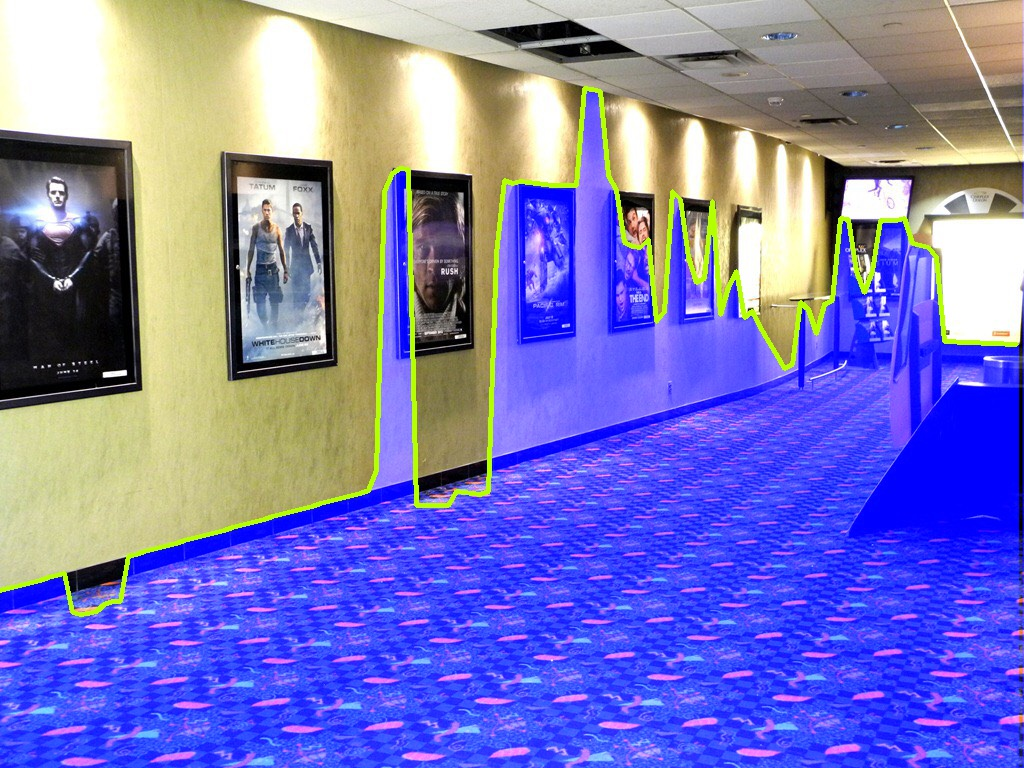
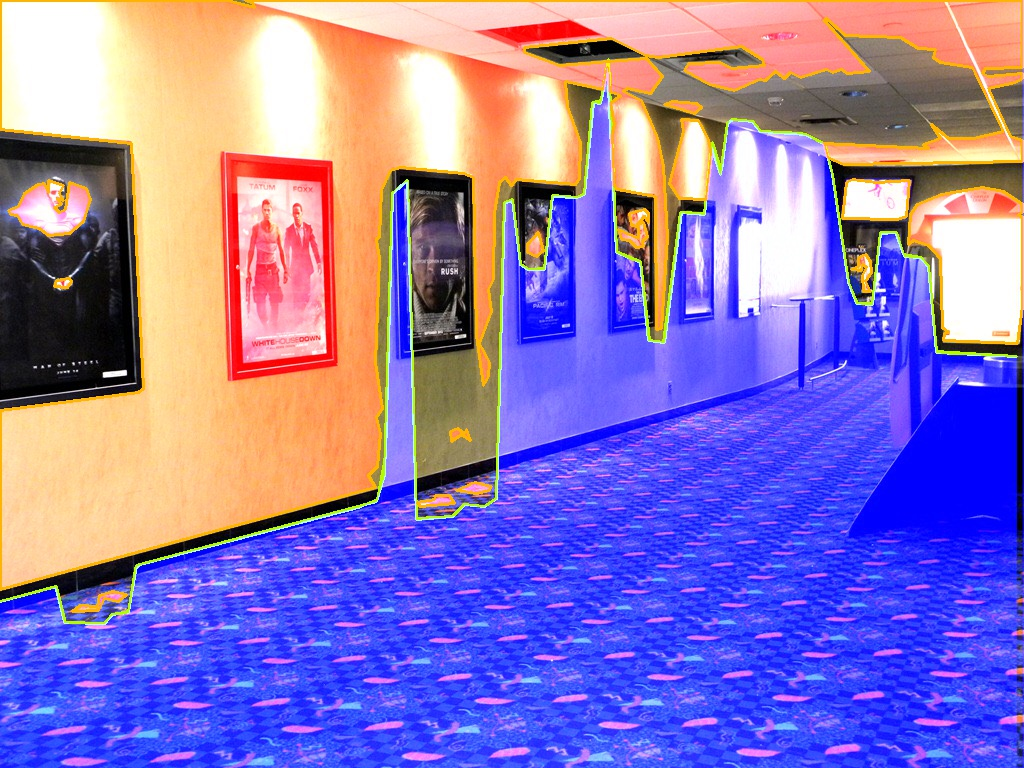
adding sample result dumps and modified algo to take advantage of HoughLines along with segementation

diff --git a/HV_plane_detect.py b/HV_plane_detect.py
@@ -1,129 +1,314 @@
 import cv2
 import numpy as np
-from matplotlib import pyplot as plt
-import argparse
-import random
 import os
+import logging
 
+log = logging.getLogger()
+logging.basicConfig(level=logging.INFO)
 
 
 class segmentation():
 
-    def __init__(self, filename, isDebugWindowsVisible=False, minContourArea=200):
-        self.isDebugWindowsVisible = isDebugWindowsVisible
+    def __init__(self, filename):
         self.filename = filename
-        self.contours = []
-        self.MIN_CONTOUR_AREA_REQUIRED = minContourArea
+        self.__preprocess(self.filename)
 
-    def preprocess(self, filename):
-        self.img = cv2.imread(filename)
-        if self.img is None:
-            print "file does not exist"
-            return
+    def __preprocess(self, filename):
+        """
+        Loads Image and performs basic Preprocessing. [Private Method]
+        Preprocessing includes (BGR->RGB, filters, RGB->Gray, Gray->Thresh)
+        """
+        self.in_image = cv2.imread(filename)
 
-        self.img = cv2.cvtColor(self.img, cv2.COLOR_BGR2RGB)
+        self.rgb_image = cv2.cvtColor(self.in_image, cv2.COLOR_BGR2RGB)
 
         # noise removal
-        blur = cv2.medianBlur(self.img, 3)
+        blur = cv2.medianBlur(self.rgb_image, 3)
         blur = cv2.GaussianBlur(blur, (3, 3), 0)
         blur = cv2.blur(blur, (3, 3))
+        blur = cv2.bilateralFilter(blur, 9, 30, 30)
 
         # convert to GRAYSCALE
         self.G = cv2.cvtColor(blur, cv2.COLOR_RGB2GRAY)
 
-
         # Noise removal
-        G_filtered = cv2.bilateralFilter(self.G, 9, 30, 30)
 
         # threshold
-        _, G_thresh = cv2.threshold(G_filtered, 0, 255, cv2.THRESH_BINARY + cv2.THRESH_OTSU)
+        _, self.G_thresh = cv2.threshold(
+            self.G, 0, 255, cv2.THRESH_BINARY + cv2.THRESH_OTSU)
 
-        return G_thresh
-
-    def get_contours(self, image):
+    def __compute_contours(self, image, minContourArea=100):
+        """
+        Computes Contours for the provided Image. [Private Method]
+        """
         # Find contours for the Morphed Image
-        ret, t_contours, hierarchy = cv2.findContours(image, cv2.RETR_EXTERNAL, cv2.CHAIN_APPROX_SIMPLE)
-        t_contours = [cv2.approxPolyDP(c, epsilon=2.5, closed=True) for c in t_contours]
-        contour_plot = np.zeros(image.shape[:2], dtype=np.uint8)
-        for c in t_contours:
-            if cv2.contourArea(c) < self.MIN_CONTOUR_AREA_REQUIRED:
-                continue
-            self.contours.append(c)
+        ret, t_contours, hierarchy = cv2.findContours(
+            image, cv2.RETR_EXTERNAL, cv2.CHAIN_APPROX_SIMPLE)
+        t_contours = [cv2.approxPolyDP(
+            c, epsilon=2.5, closed=True) for c in t_contours]
 
-        return self.contours
+        contours = []
+        for c in t_contours:
+            if cv2.contourArea(c) < minContourArea:
+                continue
+            contours.append(c)
+
+        return contours
+
+    def wall_segmentation(self):
+        """
+        Segmentation for the Wall Extraction from the image
+
+        Returns: Wall Contour Points, Wall Mask
+        """
+        wall_img = self.rgb_image.copy()
+        G_thresh = self.G_thresh.copy()
+
+        if self.floor_mask is None:
+            _, self.floor_mask = self.floor_segmentation()
+
+        # remove portion of Floor (already detected pixels)
+        G_thresh[self.floor_mask == 255] = 0
+        # remove sky (usually tends to have higher gray values)
+        # sky_mask = cv2.inRange(self.rgb_image, np.array([90,127,127]), np.array([90,127,127]))
+        # G_thresh[sky_mask > 0 ] = 0
+
+        # perform watershed algorithm to segment walls from the background
+        # _, markers = cv2.connectedComponents(G_thresh)
+        # markers = markers + 1
+        # markers = cv2.watershed(wall_img, markers)
+
+        self.wall_pts = self.__compute_contours(G_thresh)
+
+        self.wall_mask = np.zeros(G_thresh.shape[:2], dtype=np.uint8)
+        cv2.drawContours(self.wall_mask, self.wall_pts, -1, 255, thickness=-1)
+
+        # Give highlighter to image
+        cv2.drawContours(wall_img, self.wall_pts, -1, (255, 0, 0), thickness=2)
+        G = wall_img[:, :, 1]
+        G[self.wall_mask > 0] = 255
+
+        if log.level == logging.DEBUG:
+            # plt.subplot(131), plt.imshow(markers), plt.title("markers")
+            plt.subplot(121), plt.imshow(
+                G_thresh, cmap='gray'), plt.title("G_thresh")
+            plt.subplot(122), plt.imshow(wall_img), plt.title("Walls")
+            plt.show()
+
+        return self.wall_pts, self.wall_mask
+
+    def houghLines(self, probabilistic=True):
+        """
+        Computes Hough Transforms
+        """
+        HoughLines_img = self.rgb_image.copy()
+        filteredContours = self.__compute_contours(
+            self.G_thresh, minContourArea=200)
+
+        contour_plot = np.zeros(self.G_thresh.shape[:2], dtype=np.uint8)
+        cv2.drawContours(contour_plot, filteredContours, -1, 255, thickness=-1)
+        kernel = cv2.getStructuringElement(cv2.MORPH_RECT, (13, 13))
+        G_close = cv2.dilate(contour_plot, kernel, iterations=1)
+        edges = cv2.Canny(G_close, 20, 40, apertureSize=3)
+
+        self.houghline_G_thresh_mask = edges.copy()
+
+        if not probabilistic:
+            lines = cv2.HoughLines(edges, 1, np.pi / 2, 2)
+            draw_H = np.zeros(HoughLines_img.shape, dtype='uint8')
+            draw_V = np.zeros(HoughLines_img.shape, dtype='uint8')
+            if lines is not None:
+                for line in lines[:10]:
+                    i = 0
+                    for rho, theta in line:
+                        a = np.cos(theta)
+                        b = np.sin(theta)
+                        x0 = a * rho
+                        y0 = b * rho
+                        x1 = int(x0 + 1000 * (-b))
+                        y1 = int(y0 + 1000 * (a))
+                        x2 = int(x0 - 1000 * (-b))
+                        y2 = int(y0 - 1000 * (a))
+                        theta_in_degree = theta * 180 / np.pi
+                        print "theta for line[", i, "] is", theta_in_degree
+                        i += 1
+                        if theta_in_degree > 180 - 30 or theta_in_degree < 30:
+                            line_color = (0, 255, 0)
+                            draw_on = draw_V
+                        elif theta_in_degree > 90 - 45 and theta_in_degree < 90 + 45:
+                            line_color = (0, 0, 255)
+                            draw_on = draw_H
+                            cv2.line(self.houghline_G_thresh_mask,
+                                     (x1, y1), (x2, y2), 255, 2)
+                        else:
+                            print "continue"
+                            continue
+                        print "drawing line on"
+
+                        cv2.line(draw_on, (x1, y1), (x2, y2), line_color, 2)
+                        cv2.line(HoughLines_img, (x1, y1),
+                                 (x2, y2), line_color, 2)
+            else:
+                print "no lines found"
+            if log.level == logging.DEBUG:
+                plt.subplot(221), plt.imshow(HoughLines_img), plt.title("img")
+                plt.subplot(222), plt.imshow(draw_H), plt.title("line_H")
+                plt.subplot(223), plt.imshow(draw_V), plt.title("line_V")
+                plt.subplot(224), plt.imshow(
+                    draw_H + draw_V), plt.title("line_H + line_V")
+                plt.show()
+        else:
+            lines_V = []
+            lines_H = []
+            lines = cv2.HoughLinesP(
+                edges, 1, np.pi / 2, 10, None, minLineLength=5, maxLineGap=3)
+            if lines is not None:
+                for line in lines:
+                    for x1, y1, x2, y2 in line:
+                        angle = round(np.arctan2(y2 - y1, x2 - x1)
+                                      * 180. / np.pi, 2)
+                        # print "angle:", angle
+                        if angle < 45 and angle > -45:  # Horizontal Lines
+                            lines_H.append(((x1, y1), (x2, y2)))
+                        elif (angle > 85 and angle < 95) or (angle > -95 and angle < -85):  # Vertical Lines
+                            lines_V.append(((x1, y1), (x2, y2)))
+                        else:
+                            continue
+            else:
+                print "no lines found with HoughLineP"
+
+            img_lineV = np.zeros(HoughLines_img.shape, dtype=np.uint8)
+            for ((x1, y1), (x2, y2)) in lines_V:
+                cv2.line(img_lineV, (x1, y1), (x2, y2), (0, 255, 0), 2)
+                cv2.line(HoughLines_img, (x1, y1), (x2, y2), (0, 255, 0), 2)
+
+            img_lineH = np.zeros(HoughLines_img.shape, dtype=np.uint8)
+            for ((x1, y1), (x2, y2)) in lines_H:
+                cv2.line(img_lineH, (x1, y1), (x2, y2), (0, 0, 255), 2)
+                cv2.line(HoughLines_img, (x1, y1), (x2, y2), (0, 0, 255), 2)
+                cv2.line(self.houghline_G_thresh_mask,
+                         (x1, y1), (x2, y2), 255, 2)
+
+            if log.level == logging.DEBUG:
+                plt.subplot(221), plt.imshow(self.houghline_G_thresh_mask), plt.title(
+                    "houghline_G_thresh_mask")
+                plt.subplot(222), plt.imshow(
+                    HoughLines_img), plt.title("HoughLineP")
+                plt.subplot(223), plt.imshow(img_lineH), plt.title("img_lineH")
+                plt.subplot(224), plt.imshow(img_lineV), plt.title("img_lineV")
+                plt.show()
+
+        return self.houghline_G_thresh_mask
 
     def floor_segmentation(self):
 
         # pre-process the input
-        G_thresh = self.preprocess(self.filename)
+        G_thresh = self.houghLines()  # G_thresh.copy()
 
-        filteredContours = self.get_contours(G_thresh)
+        filteredContours = self.__compute_contours(G_thresh)
 
         contour_plot = np.zeros(G_thresh.shape[:2], dtype=np.uint8)
         cv2.drawContours(contour_plot, filteredContours, -1, 255, thickness=-1)
 
-        # dilate and edge detection on the detected contour plot in order to fill the gaps
-        kernel = cv2.getStructuringElement(cv2.MORPH_RECT, (3, 3))
+        # dilate and edge detection on the detected contour plot in order to
+        # fill the gaps
+        kernel = cv2.getStructuringElement(cv2.MORPH_RECT, (1, 13))
         G_morph = cv2.dilate(contour_plot, kernel, iterations=1)
         G_edges = cv2.Canny(G_morph, 40, 100, apertureSize=3)
 
-        if self.isDebugWindowsVisible:
-            plt.subplot(221), plt.title("G"), plt.imshow(self.G, cmap='gray')
-            plt.subplot(222), plt.title("G_thresh"), plt.imshow(G_thresh, cmap='gray')
-            plt.subplot(223), plt.title("contour_plot"), plt.imshow(contour_plot, cmap='gray')
-            plt.subplot(224), plt.title("G_edges (After Contours)"), plt.imshow(G_edges, cmap='gray')
-            plt.show()
-
-        self.floorEdgePoints = []
+        floorEdgePoints = []
         height = G_edges.shape[0] - 1
         width = G_edges.shape[1] - 1
         for j in range(0, width, 8):
             for i in range(height - 20, 0, -1):
-                if G_edges.item(i,j) == 255:
-                    self.floorEdgePoints.append((j,i))
+                if G_edges.item(i, j) == 255:
+                    floorEdgePoints.append((j, i))
                     break
             else:
-                self.floorEdgePoints.append((j,0))
+                floorEdgePoints.append((j, height - 20))
 
-        self.dump_output(self.floorEdgePoints, width, height)
+        mask = np.zeros(G_thresh.shape[:2], dtype=np.uint8)
+        for x in range(len(floorEdgePoints) - 1):
+            cv2.line(mask, floorEdgePoints[x], floorEdgePoints[
+                     x + 1], (255, 0, 0), 1)
 
-        return self.floorEdgePoints
+        self.floor_pts = self.__compute_contours(mask, minContourArea=0)
+        self.floor_mask = cv2.bitwise_not(mask)
 
-
-    def dump_output(self, pts, width, height):
-
-        clean_img = self.img.copy()
-        mask = np.zeros(self.img.shape[:2], dtype=np.uint8)
-        for x in range(len(pts)-1):
-            cv2.line(clean_img, pts[x], pts[x+1], (180,255,0), 2)
-            cv2.line(mask, pts[x], pts[x+1], (255, 0, 0), 2)
-
-        mask = cv2.bitwise_not(mask)
-
-        for i in range(0,width):
-            for j in range(0,height):
-                if mask[j,i] != 255:
+        for i in range(0, width):
+            for j in range(0, height):
+                if self.floor_mask[j, i] != 255:
                     break
                 else:
-                    mask[j,i] = 0
-        B = clean_img[:,:,2]
-        B[mask > 0] = 255
+                    self.floor_mask[j, i] = 0
 
-        dumpFileName = str(os.path.splitext(os.path.basename(self.filename))[0]) + "_OUT.jpg"
-        if self.isDebugWindowsVisible:
+        # Give highlighter to image
+        floor_img = self.rgb_image.copy()
+        cv2.drawContours(floor_img, self.floor_pts, -
+                         1, (0, 255, 0), thickness=2)
+        B = floor_img[:, :, 2]
+        B[self.floor_mask > 0] = 255
+
+        if log.level == logging.DEBUG:
+            plt.subplot(131), plt.title("G"), plt.imshow(self.G, cmap='gray')
+            plt.subplot(132), plt.title(
+                "G_thresh"), plt.imshow(G_thresh, cmap='gray')
+            plt.subplot(133), plt.title("floor_img"), plt.imshow(floor_img)
+            plt.show()
+
+        return self.floor_pts, self.floor_mask
+
+    def dump_results(self):
+
+        clean_img = self.rgb_image.copy()
+        # mask = np.zeros(self.img.shape[:2], dtype=np.uint8)
+
+        cv2.drawContours(clean_img, self.floor_pts, -1, (180, 250, 0), 2)
+        cv2.drawContours(clean_img, self.wall_pts, -1, (255, 180, 0), 2)
+
+        # for x in range(len(pts)-1):
+        #     cv2.line(clean_img, pts[x], pts[x+1], (180,255,0), 2)
+        #     cv2.line(mask, pts[x], pts[x+1], (255, 0, 0), 2)
+
+        # mask = cv2.bitwise_not(mask)
+
+        # for i in range(0,width):
+        #     for j in range(0,height):
+        #         if mask[j,i] != 255:
+        #             break
+        #         else:
+        #             mask[j,i] = 0
+
+        R, G, B = clean_img[:, :, 0], clean_img[:, :, 1], clean_img[:, :, 2]
+
+        B[self.floor_mask > 0] = 255
+        R[self.wall_mask > 0] = 255
+
+        dumpFileName = str(os.path.splitext(
+            os.path.basename(self.filename))[0]) + "_OUT.jpg"
+        if log.level == logging.DEBUG:
             plt.imshow(clean_img), plt.title(dumpFileName), plt.show()
 
         clean_img = cv2.cvtColor(clean_img, cv2.COLOR_RGB2BGR)
         cv2.imwrite(dumpFileName, clean_img)
-        del clean_img
-
 
 if __name__ == "__main__":
+    import argparse
 
     parser = argparse.ArgumentParser()
-    parser.add_argument("--input", help="input file path", default="data/IMG_6857.JPG")
-    parser.add_argument("--debug", help="display intermediate outputs", default=1)
+    parser.add_argument("--input", help="input file path",
+                        default="data/IMG_6857.JPG")
+    parser.add_argument("--debug", help="display intermediate outputs",
+                        action="store_true", default=False)
     args = parser.parse_args()
 
-    segment = segmentation(filename=args.input, isDebugWindowsVisible=args.debug)
-    floor_boundary_pts = segment.floor_segmentation()
+    if args.debug:
+        from matplotlib import pyplot as plt
+        log.setLevel(logging.DEBUG)
+
+    segment = segmentation(filename=args.input)
+
+    floor_pts, floor_mask = segment.floor_segmentation()
+    wall_pts, wall_mask = segment.wall_segmentation()
+
+    segment.dump_results()
